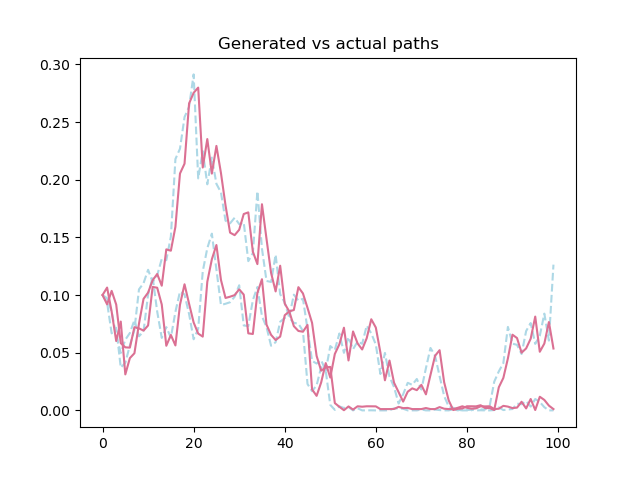
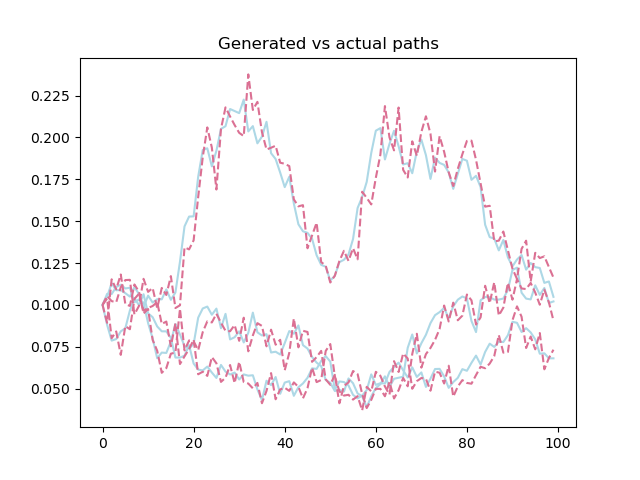
update automatically detecting configuration params

diff --git a/data_generator.py b/data_generator.py
@@ -3,6 +3,8 @@ import matplotlib.pyplot as plt
 import torch
 import pdb
 
+import yaml
+
 ############## GBM process ##############
 
 def gen_paths_GBM(S_0, mu, sigma, dt, n_steps, n_paths): 
@@ -111,21 +113,58 @@ def gen_paths_from_GAN(gen_model, process, S_0, S_bar, dt, n_steps, n_paths, act
 
 if __name__ == '__main__':
 
-    config_name = 'scGAN_CIR_signle_dt'
-    process = 'CIR'
+    # Loading parameters
+    def load_config(filepath, config_key):
+        with open(filepath, 'r') as file:
+            configs = yaml.safe_load(file)
+        return configs[config_key]
 
-    paths = 2
+    # Load the specific configuration
+    config_key = 'config_4'
+    config = load_config('parameters.yaml', config_key)
 
-    S_E, S_M, Exact_solution, Z, Returns = gen_paths_CIR(0.1, 0.1, 0.1, 0.3, 0.05, 100, paths)
-    gen_model = torch.load(f'Trained_Models/generator_{config_name}.pth')
-    gen_model.eval()        
-    model_paths_one_step = gen_paths_from_GAN(gen_model, process, 0.1, 0.1, 0.05, 100, paths, actual_returns=Returns, Z_BM=Z)
-    
-    plt.plot(Exact_solution, linestyle='dashed', color = 'lightblue')
+    # Access the variables
+    config_name = config['config_name']
+    process = config['process']
+    S_0 = config['S_0']
+    if process == 'GBM' :
+        SDE_params = {'mu' : config['mu'], 'sigma' : config['sigma']}
+    elif process == 'CIR' :
+        SDE_params = {'kappa' : config['kappa'], 'S_bar' : config['S_bar'], 'gamma' : config['gamma']}
+    n_steps = config['n_steps']
+    n_paths = config['n_paths']
+    dt = config['dt']
+    number_data_points = config['number_data_points']
+    epochs = config['epochs']
+    batch_size = config['batch_size']
+    advancing_C = config['advancing_C']
+    log_freq = config['log_freq']
+    use_Z = config['use_Z']
+
+    paths = 3
+
+    if process == 'GBM':
+        S_E, S_M, Exact_solution, Z, Returns = gen_paths_GBM(S_0, SDE_params['mu'], SDE_params['sigma'], dt, n_steps, paths)
+        gen_model = torch.load(f'Trained_Models/generator_{config_name}.pth')
+        gen_model.eval() 
+        if use_Z:       
+            model_paths_one_step = gen_paths_from_GAN(gen_model, process, S_0, None, dt, 100, paths, actual_returns=Returns, Z_BM=Z)
+        else:
+            model_paths_one_step = gen_paths_from_GAN(gen_model, process, S_0, None, dt, 100, paths, actual_returns=Returns)
+    elif process == 'CIR' : 
+        S_E, S_M, Exact_solution, Z, Returns = gen_paths_CIR(S_0, SDE_params['kappa'], SDE_params['S_bar'], SDE_params['gamma'], dt, 100, paths)
+        gen_model = torch.load(f'Trained_Models/generator_{config_name}.pth')
+        gen_model.eval()  
+        if use_Z:         
+            model_paths_one_step = gen_paths_from_GAN(gen_model, process, S_0, SDE_params['S_bar'], dt, 100, paths, actual_returns=Returns, Z_BM=Z)
+        else:
+            model_paths_one_step = gen_paths_from_GAN(gen_model, process, S_0, SDE_params['S_bar'], dt, 100, paths, actual_returns=Returns)
+
+    plt.plot(Exact_solution, color = 'lightblue')
     plt.plot([], [], color = 'lightblue', label = "Exact")
-    plt.plot(model_paths_one_step, color = 'palevioletred')
+    plt.plot(model_paths_one_step, linestyle='dashed', color = 'palevioletred')
     plt.plot([], [], color = 'palevioletred', label = "Generated one-step")
-    plt.title("Generated vs actual paths")
+    plt.title(f"Generated vs actual paths {config_name}")
     plt.savefig(f"Plots/Generated vs actual paths_{config_name}")
     plt.legend()
     plt.show()
